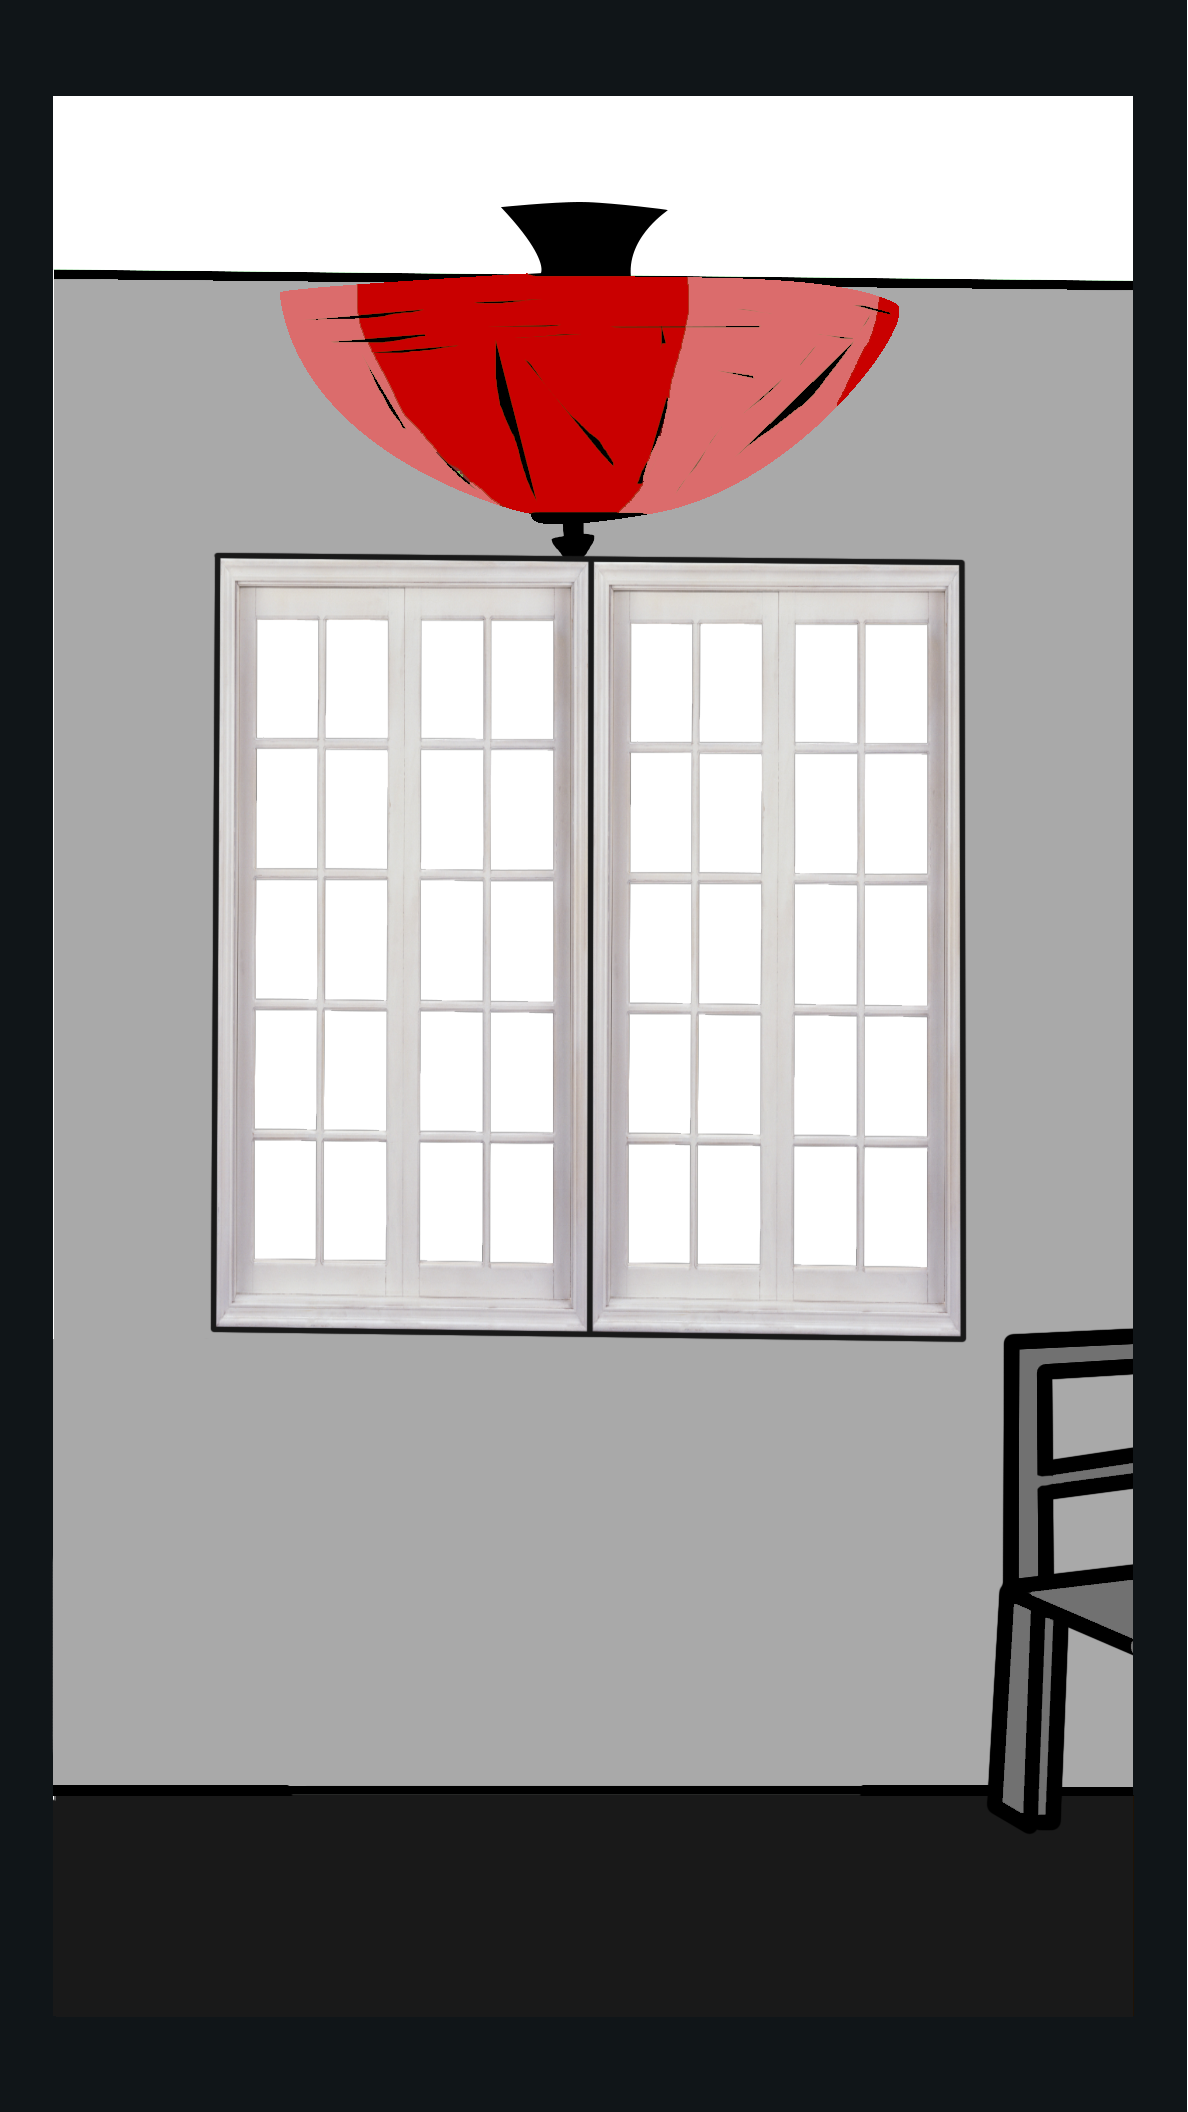
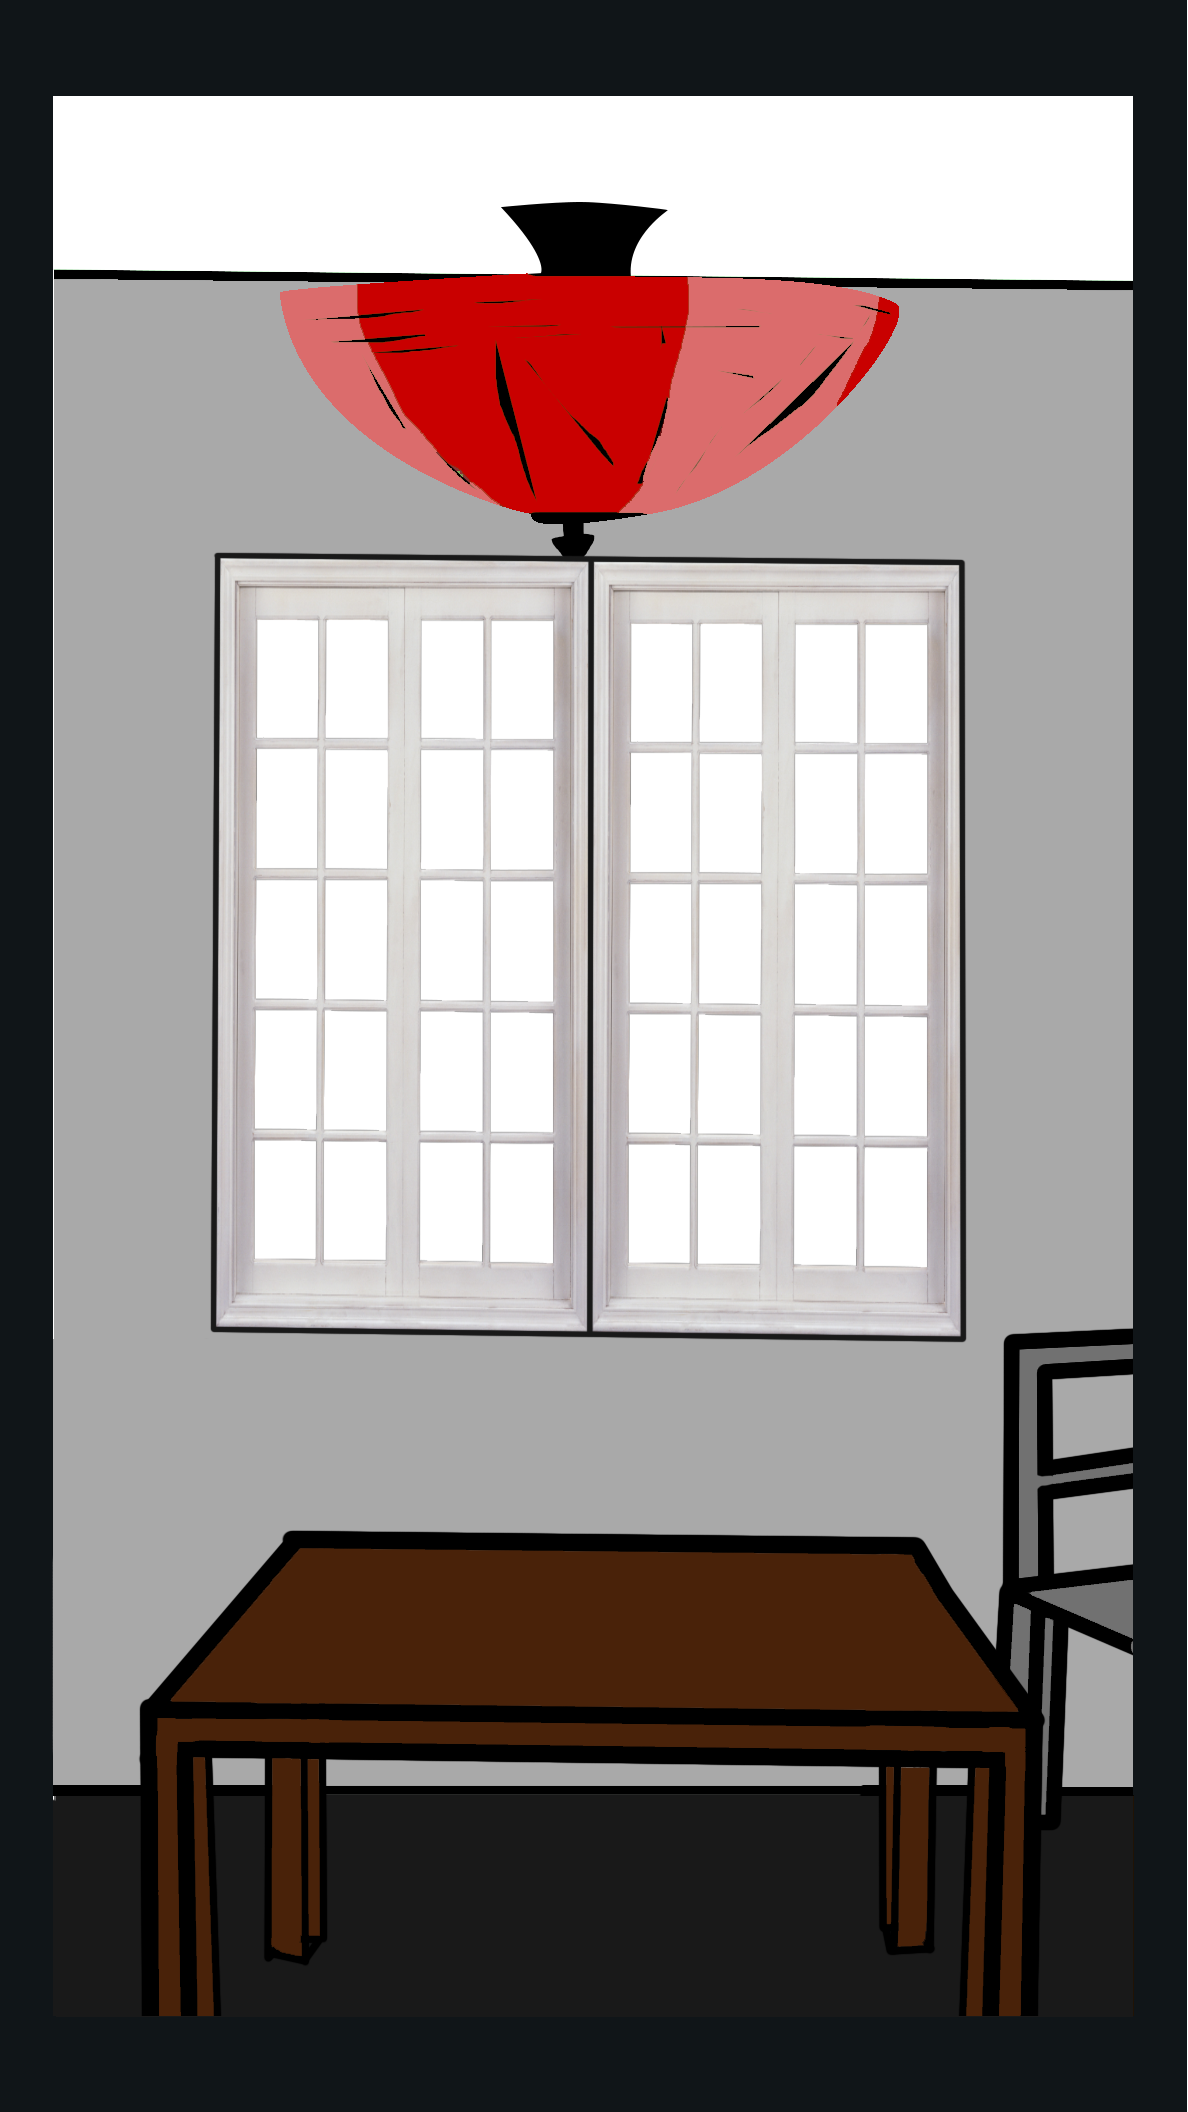
i guess ez már majdnem jó

Changed region(s): [[0.0934, 0.7188, 0.8721, 0.9688]]

diff --git a/core/src/com/pindurpendurok/puszedli/Screens/Game/GameStage.java b/core/src/com/pindurpendurok/puszedli/Screens/Game/GameStage.java
@@ -42,9 +42,9 @@ public class GameStage extends SimpleWorldStage {
 
     public final static String FONT = "Bosk.otf";
     static final String[][] HATTEREK = new String[][]{{"elemek/szoba/szoba1.png","elemek/szoba/szoba2.png","elemek/szoba/szoba3.png","elemek/szoba/szoba4.png","elemek/szoba/szoba5.png"},
-            {"elemek/szoba/szoba1_konyha.png"},
-            {"elemek/szoba/szoba1_munka.png"},
-            {"elemek/szoba/szoba1_radio.png"},
+            {"elemek/szoba/szoba1_konyha.png","elemek/szoba/szoba2_konyha.png","elemek/szoba/szoba3_konyha.png","elemek/szoba/szoba4_konyha.png","elemek/szoba/szoba5_konyha.png"},
+            {"elemek/szoba/szoba1_munka.png","elemek/szoba/szoba2_munka.png","elemek/szoba/szoba3_munka.png","elemek/szoba/szoba4_munka.png","elemek/szoba/szoba5_munka.png"},
+            {"elemek/szoba/szoba1_ures.png","elemek/szoba/szoba2_ures.png","elemek/szoba/szoba3_ures.png","elemek/szoba/szoba4_ures.png","elemek/szoba/szoba5_ures.png"},
     };
 
 
@@ -55,7 +55,10 @@ public class GameStage extends SimpleWorldStage {
     public final static String ITALOK = "elemek/italok.png";
     public final static String SZOBAK = "elemek/szobak.png";
     public final static String RUHAK = "elemek/ruhak.png";
+    public final static String JATEKOK = "elemek/games.png";
+    public final static String MUNKAK = "elemek/storyk.png";
     public final static String SAND = "ui_textures/sand.png";
+    public final static String VISSZA = "back.png";
 
     public boolean timer_able_to_count = true;
     public int ticks = 0;
@@ -70,6 +73,9 @@ public class GameStage extends SimpleWorldStage {
     changeMenuActor detect;
     int melyik_hatter = 0;
     OneSpriteStaticActor sand;
+    OneSpriteStaticActor vissza;
+    Borderhuzogato inline;
+    boolean detectOn = true;
     public static List<Border> gombok = new ArrayList<>();
 
 
@@ -81,6 +87,9 @@ public class GameStage extends SimpleWorldStage {
         assetList.addTexture(ITALOK);
         assetList.addTexture(RUHAK);
         assetList.addTexture(SZOBAK);
+        assetList.addTexture(VISSZA);
+        assetList.addTexture(JATEKOK);
+        assetList.addTexture(MUNKAK);
 
         for (int i = 0; i < HATTEREK.length; i++) {
             for (int k = 0; k < HATTEREK[i].length; k++) {
@@ -119,6 +128,8 @@ public class GameStage extends SimpleWorldStage {
         datum.leptetes();
 
         detect = new changeMenuActor(game,this);
+        detect.setVisible(false);
+
 
         OneSpriteStaticActor BackGround = new OneSpriteStaticActor(game, HATTEREK[0][save.getInteger("hatter")]);
         BackGround.setSize(getWidth(),getHeight());
@@ -152,37 +163,79 @@ public class GameStage extends SimpleWorldStage {
 
         OneSpriteStaticActor etelek = new OneSpriteStaticActor(game, ETELEK);
         etelek.setSize(getWidth()/4,getWidth()/4);
-        etelek.setPosition(0,0);
+        etelek.setPosition( getWidth()+ getWidth()/2-etelek.getWidth()*1.5f,etelek.getHeight()/2);
         addActor(etelek);
+        etelek.addListener(new ClickListener() {
+            @Override
+            public void clicked(InputEvent event, float x, float y) {
+                super.clicked(event, x, y);
+                etelclicked();
+            }
+        });
 
         OneSpriteStaticActor italok = new OneSpriteStaticActor(game, ITALOK);
         italok.setSize(getWidth()/4,getWidth()/4);
-        italok.setPosition(italok.getWidth(),0);
+        italok.setPosition(getWidth()+ getWidth()/2 +etelek.getWidth()*0.5f,italok.getHeight()/2);
         addActor(italok);
+        italok.addListener(new ClickListener() {
+            @Override
+            public void clicked(InputEvent event, float x, float y) {
+                super.clicked(event, x, y);
+                italclicked();
+            }
+        });
+
+        OneSpriteStaticActor jatekok = new OneSpriteStaticActor(game, JATEKOK);
+        jatekok.setSize(getWidth()/4,getWidth()/4);
+        jatekok.setPosition( -getWidth()+ getWidth()/2-etelek.getWidth()*1.5f,etelek.getHeight()/2);
+        addActor(jatekok);
+
+        OneSpriteStaticActor munkak = new OneSpriteStaticActor(game, MUNKAK);
+        munkak.setSize(getWidth()/4,getWidth()/4);
+        munkak.setPosition(-getWidth()+ getWidth()/2 +etelek.getWidth()*0.5f,italok.getHeight()/2);
+        addActor(munkak);
 
         OneSpriteStaticActor szobak = new OneSpriteStaticActor(game, SZOBAK);
         szobak.setSize(getWidth()/4,getWidth()/4);
-        szobak.setPosition(getWidth()-szobak.getWidth(),0);
+        szobak.setPosition(getWidth()*2+ getWidth()/2-etelek.getWidth()*1.5f,etelek.getHeight()/2);
         addActor(szobak);
 
         OneSpriteStaticActor ruhak = new OneSpriteStaticActor(game, RUHAK);
         ruhak.setSize(getWidth()/4,getWidth()/4);
-        ruhak.setPosition(italok.getWidth()*2,0);
+        ruhak.setPosition(getWidth()*2+ getWidth()/2 +etelek.getWidth()*0.5f,italok.getHeight()/2);
         addActor(ruhak);
+
+        OneSpriteStaticActor szobak1 = new OneSpriteStaticActor(game, SZOBAK);
+        szobak1.setSize(getWidth()/4,getWidth()/4);
+        szobak1.setPosition(getWidth()*-2+ getWidth()/2-etelek.getWidth()*1.5f,etelek.getHeight()/2);
+        addActor(szobak1);
+
+        OneSpriteStaticActor ruhak1 = new OneSpriteStaticActor(game, RUHAK);
+        ruhak1.setSize(getWidth()/4,getWidth()/4);
+        ruhak1.setPosition(getWidth()*-2+ getWidth()/2 +etelek.getWidth()*0.5f,italok.getHeight()/2);
+        addActor(ruhak1);
+
+        vissza = new OneSpriteStaticActor(game, VISSZA);
+        vissza.setSize(getWidth()/5,getWidth()/10);
+        vissza.setPosition(getWidth()-vissza.getWidth(),0);
+        addActor(vissza,10001);
+        vissza.setVisible(false);
+        vissza.addListener(new ClickListener() {
+            @Override
+            public void clicked(InputEvent event, float x, float y) {
+                super.clicked(event, x, y);
+                visszaclicked();
+            }
+        });
 
         sand = new OneSpriteStaticActor(game, SAND);
         sand.setSize(getWidth(),getHeight());
         sand.setPosition(0,0);
         addActor(sand,10001);
-        //sand.setVisible(false);
+        sand.setVisible(false);
 
-        Borderhuzogato inline = new Borderhuzogato(game,this);
-
-
-        for (int i = 0; i < 10; i++) {
-            Border asd = new Border(game,this,i);
-            gombok.add(asd);
-        }
+        inline = new Borderhuzogato(game,this);
+        inline.setVisible(true);
 
         naptar = new MyLabel(game, "Ez itt a datum", ls) {
             @Override
@@ -191,7 +244,7 @@ public class GameStage extends SimpleWorldStage {
             }
         };
         naptar.setPosition(0,getHeight()-naptar.getHeight());
-        naptar.setColor(Color.BLACK);
+        naptar.setColor(Color.WHITE);
         naptar.setFontScale(1.5f);
         addActor(naptar);
 
@@ -220,7 +273,7 @@ public class GameStage extends SimpleWorldStage {
                     datum.leptetes();
                 }
 
-                if(detect.get){
+                if(detect.get && detectOn){
                     if(detect.iranyX==-1)jobbra();
                     else if(detect.iranyX==1)balra();
                     detect.del();
@@ -318,6 +371,49 @@ public class GameStage extends SimpleWorldStage {
 
         //getCamera().position.set(0,getViewport().getWorldHeight()/2,0);
     }
+
+    public void etelclicked(){
+        for (int i = 0; i < Border.KAJA.length; i++) {
+            System.out.println("asd");
+            Border asd = new Border(game,this,i,0,getViewport().getWorldWidth());
+            gombok.add(asd);
+        }
+        sand.setVisible(true);
+        sand.setX(getWidth());
+        inline.setVisible(true);
+        detectOn=false;
+        vissza.setVisible(true);
+        vissza.setX((getWidth())*2-vissza.getWidth());
+        vissza.setZIndex(29000);
+    }
+
+    public void italclicked(){
+        for (int i = 0; i < Border.ITAL.length; i++) {
+            Border asd = new Border(game,this,i,1,getViewport().getWorldWidth());
+            gombok.add(asd);
+        }
+        sand.setVisible(true);
+        sand.setX(getWidth());
+        inline.setVisible(true);
+        detectOn=false;
+        vissza.setVisible(true);
+        vissza.setX((getWidth())*2-vissza.getWidth());
+        vissza.setZIndex(29000);
+    }
+
+    void visszaclicked(){
+        for (int i = 0; i < gombok.size(); i++) {
+            gombok.get(i).remove();
+        }
+        gombok.clear();
+        sand.setVisible(false);
+        inline.setVisible(false);
+        detect.setVisible(true);
+        vissza.setVisible(false);
+        detectOn = true;
+    }
+
+
     TickTimer a;
     void balra(){
         melyik_hatter--;

diff --git a/core/src/com/pindurpendurok/puszedli/Screens/Classes/Border.java b/core/src/com/pindurpendurok/puszedli/Screens/Classes/Border.java
@@ -15,9 +15,13 @@ public class Border {
     public final static String FONT = "Bosk.otf";
     public final static String BACK = "elemek/border.png";
     public final static String COIN = "penz.png";
-    static final String[] KAJA = new String[]{"elemek/etel/alma.png","elemek/etel/alma2.png","elemek/etel/barack.png","elemek/etel/chips.png","elemek/etel/csike.png",
+    public static final String[] KAJA = new String[]{"elemek/etel/alma.png","elemek/etel/alma2.png","elemek/etel/barack.png","elemek/etel/chips.png","elemek/etel/csike.png",
             "elemek/etel/hamburger.png","elemek/etel/hamburger2.png","elemek/etel/popcorn.png","elemek/etel/spaggeti.png","elemek/etel/steak.png"};
     static final int[] penz = new int[]{20,25,30,150,300,250,270,120,300,400};
+
+    public static final String[] ITAL = new String[]{"elemek/ital/cola.png","elemek/ital/cola2.png","elemek/ital/gyumile.png","elemek/ital/gyumile2.png","elemek/ital/kv2.png",
+            "elemek/ital/sorike.png","elemek/ital/sorike_2l_javitott.png","elemek/ital/viz.png","elemek/ital/viz2.png",};
+    static final int[] penz2 = new int[]{100,60,200,190,120,250,450,100,50};
 
     public static AssetList assetList = new AssetList();
     static {
@@ -28,6 +32,9 @@ public class Border {
         for (int i = 0; i < KAJA.length; i++) {
             assetList.addTexture(KAJA[i]).protect = true;
         }
+        for (int i = 0; i < ITAL.length; i++) {
+            assetList.addTexture(ITAL[i]).protect = true;
+        }
     }
 
     OneSpriteStaticActor back;
@@ -35,28 +42,38 @@ public class Border {
     MyLabel text;
     OneSpriteStaticActor coin;
 
-    public Border(MyGame game, SimpleWorldStage gs,int hanyadik){
+    public Border(MyGame game, SimpleWorldStage gs,int hanyadik,int type,float screen){
         Label.LabelStyle ls = new Label.LabelStyle();
         ls.font = game.getMyAssetManager().getFont(FONT);
         ls.fontColor = Color.WHITE;
 
         back = new OneSpriteStaticActor(game, BACK);
         back.setSize(gs.getWidth()/3,gs.getWidth()/3);
-        if(hanyadik%2==0 || hanyadik == 0)back.setPosition(gs.getViewport().getWorldWidth()/2-back.getWidth()*1.1f,gs.getViewport().getWorldHeight()-(back.getHeight()*1.1f)*(hanyadik+2)/2);
-        else back.setPosition(gs.getViewport().getWorldWidth()/2+(back.getWidth()*1.1f-back.getWidth()),gs.getViewport().getWorldHeight()-(back.getHeight()*1.1f)*(hanyadik+1)/2);
+        if(hanyadik%2==0 || hanyadik == 0)back.setPosition(screen + gs.getViewport().getWorldWidth()/2-back.getWidth()*1.1f,gs.getViewport().getWorldHeight()-(back.getHeight()*1.1f)*(hanyadik+2)/2);
+        else back.setPosition(screen+ gs.getViewport().getWorldWidth()/2+(back.getWidth()*1.1f-back.getWidth()),gs.getViewport().getWorldHeight()-(back.getHeight()*1.1f)*(hanyadik+1)/2);
         gs.addActor(back,19999);
 
-        kep = new OneSpriteStaticActor(game, KAJA[hanyadik]);
+        if(type == 0) kep = new OneSpriteStaticActor(game, KAJA[hanyadik]);
+        else if(type == 1) kep = new OneSpriteStaticActor(game, ITAL[hanyadik]);
         kep.setSize(back.getWidth()/1.5f,back.getWidth()/1.5f);
         kep.setPosition(back.getX()+back.getWidth()/2-kep.getWidth()/2,back.getY()+back.getHeight()/3.2f);
         gs.addActor(kep,19999);
 
+        if(type == 0){
         text = new MyLabel(game, penz[hanyadik]+"", ls) {
             @Override
             public void init() {
 
             }
-        };
+        };}
+        else if(type == 1){
+            text = new MyLabel(game, penz2[hanyadik]+"", ls) {
+                @Override
+                public void init() {
+
+                }
+            };
+        }
         text.setPosition(back.getX()+back.getWidth()/2-((back.getWidth()/25)*text.getText().length),back.getY()+back.getHeight()/30);
         text.setColor(Color.BLACK);
         text.setFontScale(0.8f);
@@ -69,9 +86,16 @@ public class Border {
     }
 
     public void mozgat(float y){
+        System.out.println("asd");
         back.setY(back.getY()+y);
         kep.setPosition(back.getX()+back.getWidth()/2-kep.getWidth()/2,back.getY()+back.getHeight()/3.2f);
         text.setPosition(back.getX()+back.getWidth()/2-((back.getWidth()/25)*text.getText().length),back.getY()+back.getHeight()/30);
         coin.setPosition(back.getX()+back.getWidth()/2+((back.getWidth()/25)*text.getText().length),back.getY()+back.getHeight()/12);
+    }
+    public void remove(){
+        back.remove();
+        kep.remove();
+        text.remove();
+        coin.remove();
     }
 }

diff --git a/core/src/com/pindurpendurok/puszedli/Screens/Classes/Borderhuzogato.java b/core/src/com/pindurpendurok/puszedli/Screens/Classes/Borderhuzogato.java
@@ -21,21 +21,24 @@ public class Borderhuzogato {
     public float iranyX;
     public boolean get = false;
     boolean elsokattint = true;
+    SimpleWorldStage gs;
 
     public OneSpriteStaticActor kocka;
-    public Borderhuzogato(MyGame game, SimpleWorldStage gs){
+    public Borderhuzogato(MyGame game, SimpleWorldStage gs2){
+        gs = gs2;
         kocka = new OneSpriteStaticActor(game,LABDA);
         kocka.setPosition(0,0);
         kocka.setSize(gs.getViewport().getWorldWidth(), gs.getViewport().getWorldHeight());
-        gs.addActor(kocka,21000);
+        gs.addActor(kocka,19000);
 
 
         //A stagere rakjuk a listenert mert ha kockára rakod bugool
         gs.addListener(new ClickListener() {
+
             @Override
             public void touchDragged(InputEvent event, float x, float y, int pointer) {
                 super.touchDragged(event, x, y, pointer);
-                if(elsokattint) {kezdX = y;elsokattint=false;}
+                if(elsokattint) {kezdX = y;elsokattint=false; setpos(1);}
                 //megnézzük hogy a kockára kattintintunk-e (opcionális)
                 if(x >= kocka.getX() && x <= kocka.getX() + kocka.getWidth()) {
                     if(y >= kocka.getY() && y <= kocka.getY() + kocka.getHeight()) {
@@ -63,4 +66,14 @@ public class Borderhuzogato {
     public void del(){
         kocka.setPosition(0,0);
         elsokattint = true;
-    }}
+    }
+    public void setVisible(boolean x){
+        kocka.setVisible(x);
+    }
+    public void setZindex(int x){
+        kocka.setZIndex(x);
+    }
+    public void setpos(int i){
+        kocka.setX(gs.getViewport().getWorldWidth()*i);
+    }
+}

diff --git a/core/src/com/pindurpendurok/puszedli/Screens/Actors/changeMenuActor.java b/core/src/com/pindurpendurok/puszedli/Screens/Actors/changeMenuActor.java
@@ -63,4 +63,11 @@ public class changeMenuActor {
     public void del(){
         kocka.setPosition(0,0);
     }
+
+    public void setVisible(boolean x){
+        kocka.setVisible(x);
+    }
+    public void setZindex(int x){
+        kocka.setZIndex(x);
+    }
 }

diff --git a/core/src/com/pindurpendurok/puszedli/MyGdxGame.java b/core/src/com/pindurpendurok/puszedli/MyGdxGame.java
@@ -31,6 +31,6 @@ public class MyGdxGame extends MyGame {
 	public void create() {
 		super.create();
 		setLoadingStage(new GameLoadingStage(this));
-		setScreen(new BellScreen(this));
+		setScreen(new GameScreen(this));
 	}
 }
